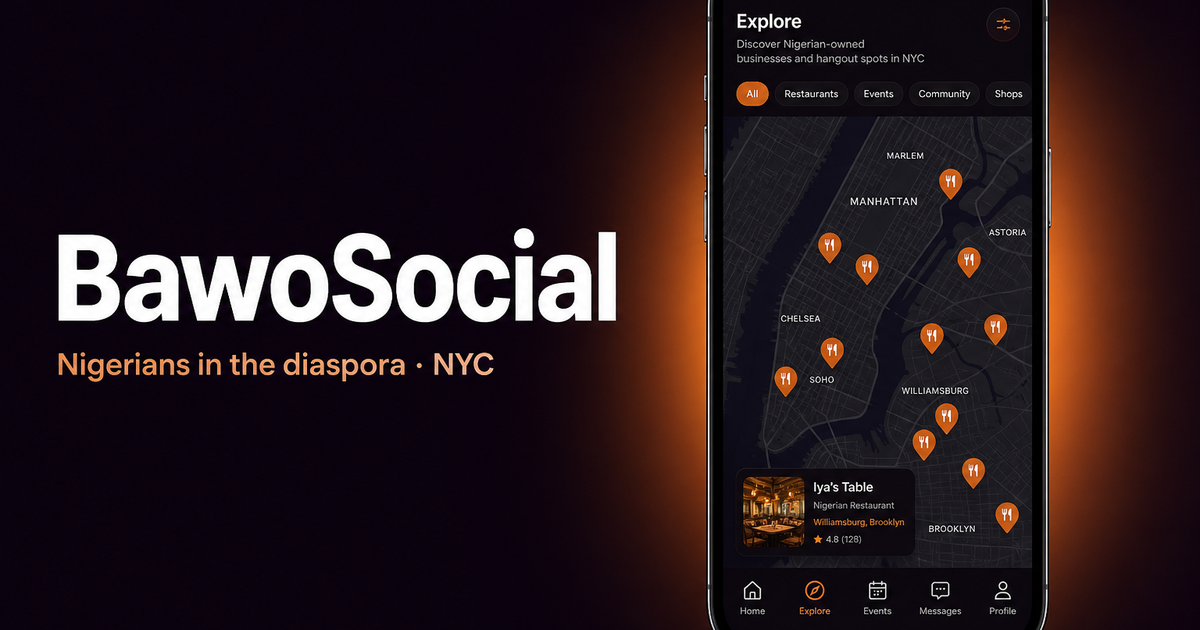
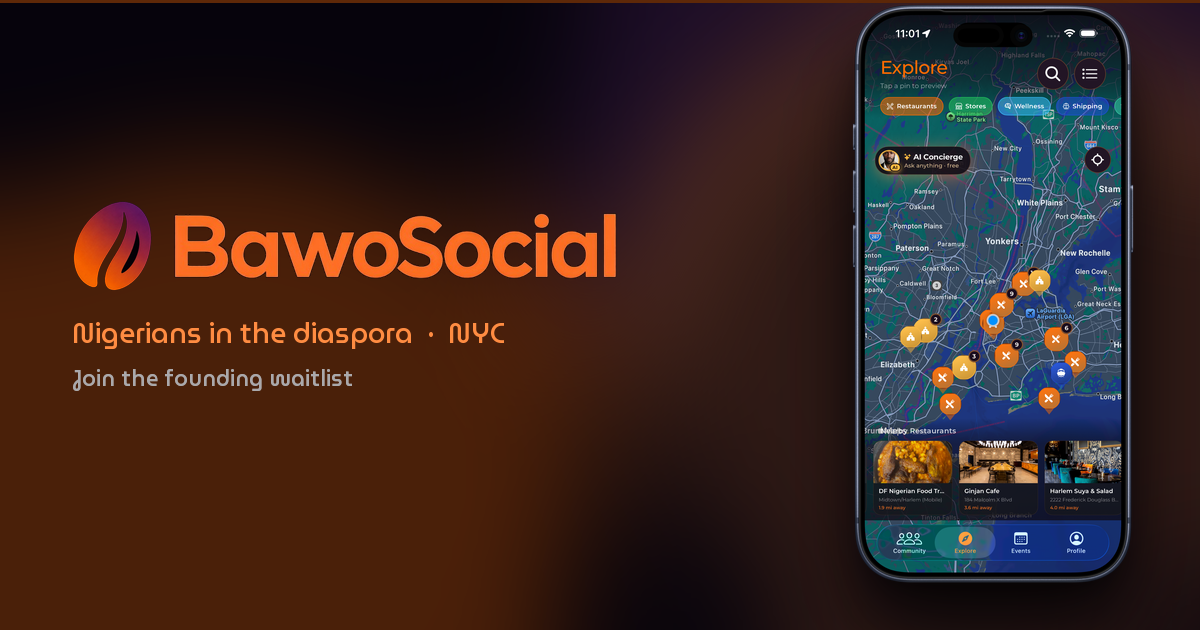
Add a branded 1200×630 share card for WhatsApp, IG, and LinkedIn.
Use the kola mark, orange wordmark, and Explore mockup so link previews match the live site.

diff --git a/index.html b/index.html
@@ -27,7 +27,9 @@
     <meta property="og:url" content="https://www.joinbawo.com/" />
     <meta property="og:title" content="BawoSocial — Community for Nigerians in the Diaspora" />
     <meta property="og:description" content="Curated resources, culture-led events, and private groups for Nigerians in the diaspora. Starting in NYC. Join the founding waitlist." />
-    <meta property="og:image" content="https://www.joinbawo.com/og-share.png" />
+    <meta property="og:image" content="https://www.joinbawo.com/og-share.jpg?v=7" />
+    <meta property="og:image:secure_url" content="https://www.joinbawo.com/og-share.jpg?v=7" />
+    <meta property="og:image:type" content="image/jpeg" />
     <meta property="og:image:width" content="1200" />
     <meta property="og:image:height" content="630" />
     <meta property="og:image:alt" content="BawoSocial — Nigerians in the diaspora · NYC" />
@@ -37,7 +39,7 @@
     <meta name="twitter:url" content="https://www.joinbawo.com/" />
     <meta name="twitter:title" content="BawoSocial — Community for Nigerians in the Diaspora" />
     <meta name="twitter:description" content="Curated resources, culture-led events, and private groups for Nigerians in the diaspora. Starting in NYC. Join the founding waitlist." />
-    <meta name="twitter:image" content="https://www.joinbawo.com/og-share.png" />
+    <meta name="twitter:image" content="https://www.joinbawo.com/og-share.jpg?v=7" />
 
     <script type="application/ld+json">
       {
